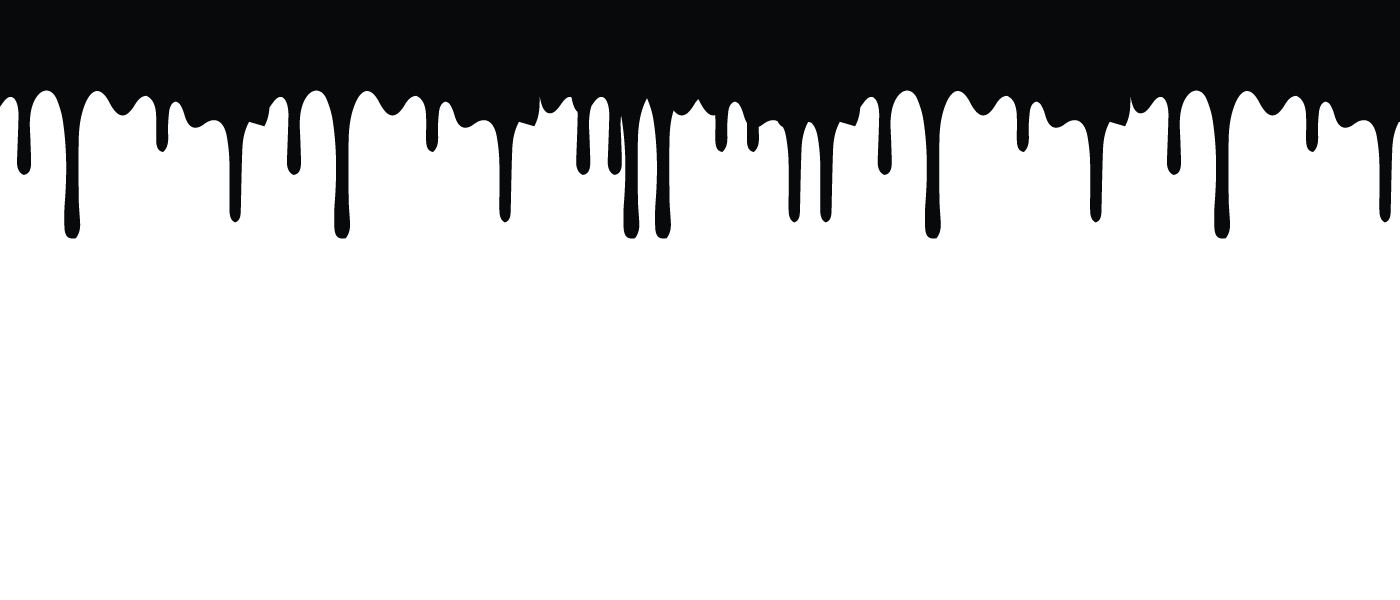
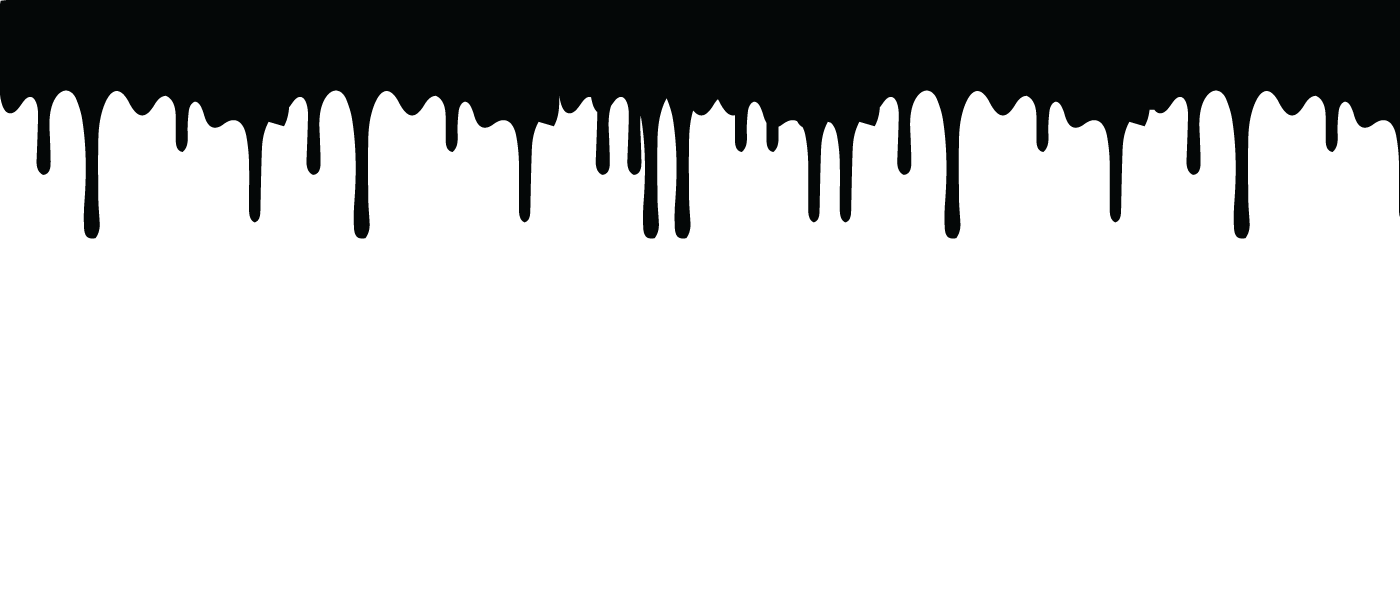
commit new Bgs

Changed region(s): [[0.0, 0.15, 1.0, 0.42]]

diff --git a/src/components/Footer.css b/src/components/Footer.css
@@ -8,7 +8,8 @@
   margin-top: 200px;
   min-height: 200px;
 
-  background-color: black;
+  background-image: url("./images/Gallery/divider2.png");
+  background-position-y: 90%;
 }
 
 .ftext {

diff --git a/src/components/Welcometext.css b/src/components/Welcometext.css
@@ -86,8 +86,6 @@
 .sliderei {
   display: flex;
   justify-content: center;
-  background-size: cover;
-  background-position-y: 30%;
 }
 
 .divider {
